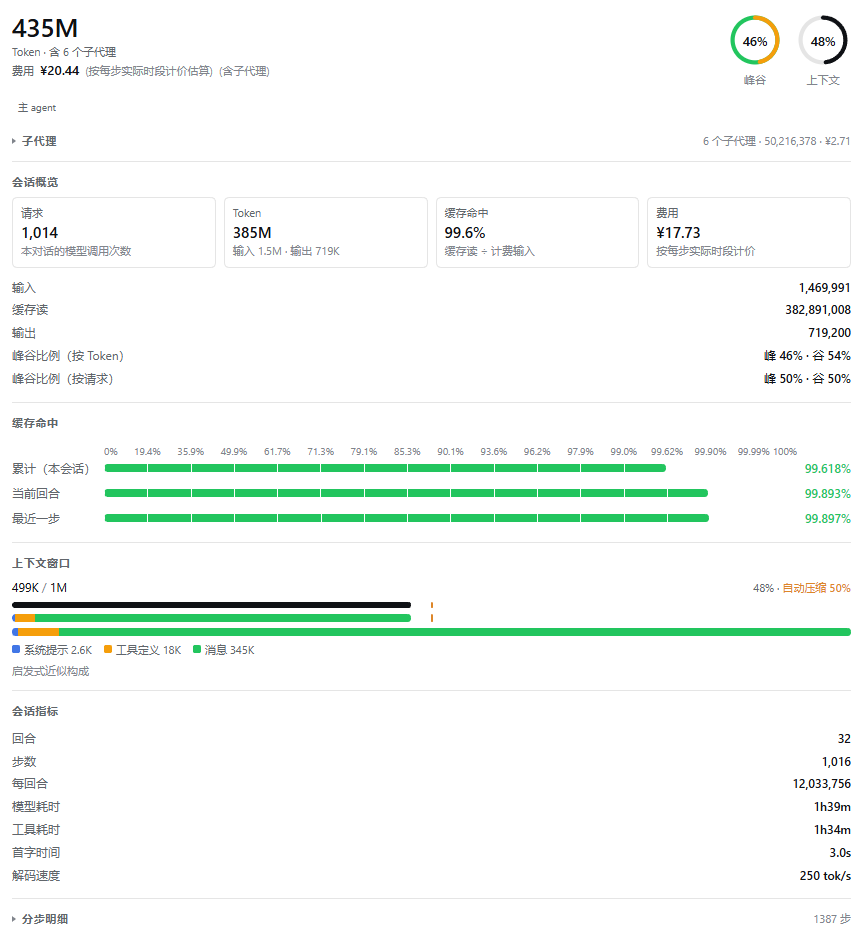
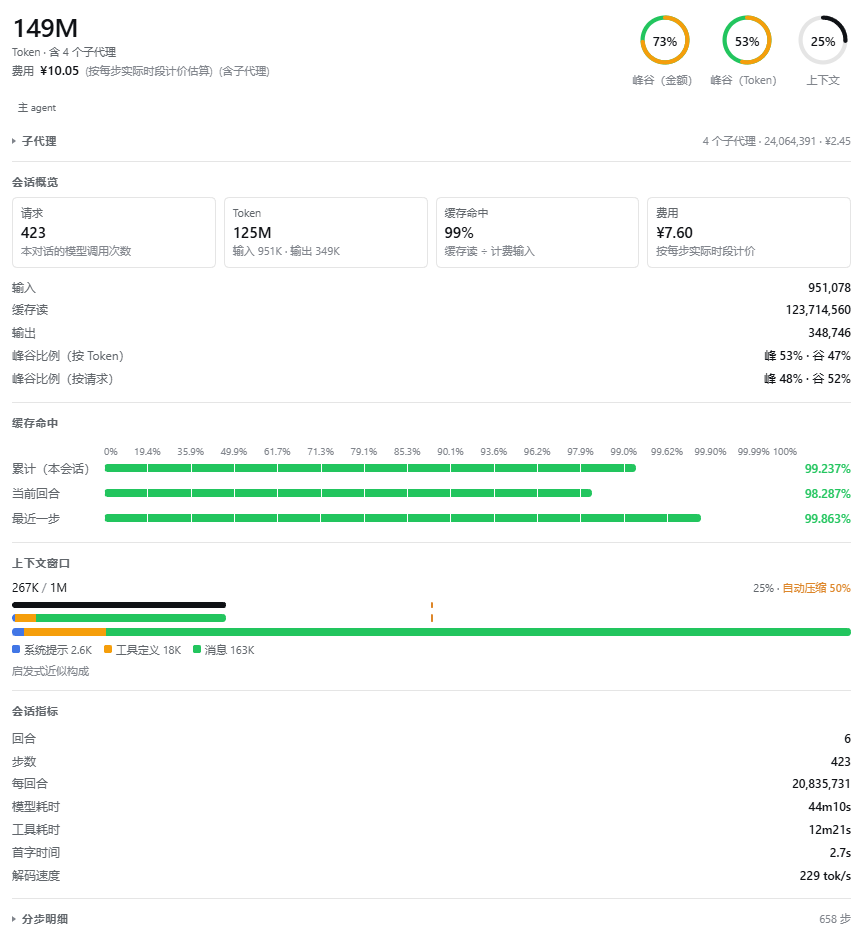
feat: split the header's peak share into token and cost rings
Peak rates are higher than off-peak, so the amount a conversation spent splits by band differently from its token counts. The panel header now draws both rings side by side left of the context ring: the token ring counts tokens, the cost ring prices each band's part of the same rollup. The cost ring disappears when part of the rollup has no price, because a partial split would misstate the share.

diff --git a/dist/client.js b/dist/client.js
@@ -1,4 +1,4 @@
-/* dsh-usage-insights v0.19.0 — generated by scripts/build.mjs; do not edit. */
+/* dsh-usage-insights v0.20.0 — generated by scripts/build.mjs; do not edit. */
 window.__ModuleLoader__.load({
   id: "dsh-usage-insights",
   factory(require) {
@@ -114,7 +114,8 @@ var en = {
   "label.nextRequest": "Next request",
   "label.cost": "Cost",
   "label.cost.hint": "Estimated from the configured price table",
-  "label.bandShare.short": "Peak/off",
+  "label.bandShare.short": "Peak/off (tokens)",
+  "label.bandShare.cost": "Peak/off (cost)",
   "label.bandShare.tokens": "Peak / off-peak (tokens)",
   "label.bandShare.requests": "Peak / off-peak (requests)",
   "band.other": "Unattributed",
@@ -248,7 +249,8 @@ var zh = {
   "label.nextRequest": "\u4E0B\u6B21\u8BF7\u6C42",
   "label.cost": "\u8D39\u7528",
   "label.cost.hint": "\u6309\u5DF2\u914D\u7F6E\u7684\u4EF7\u683C\u8868\u4F30\u7B97",
-  "label.bandShare.short": "\u5CF0\u8C37",
+  "label.bandShare.short": "\u5CF0\u8C37\uFF08Token\uFF09",
+  "label.bandShare.cost": "\u5CF0\u8C37\uFF08\u91D1\u989D\uFF09",
   "label.bandShare.tokens": "\u5CF0\u8C37\u6BD4\u4F8B\uFF08\u6309 Token\uFF09",
   "label.bandShare.requests": "\u5CF0\u8C37\u6BD4\u4F8B\uFF08\u6309\u8BF7\u6C42\uFF09",
   "band.other": "\u672A\u5206\u7C7B",
@@ -419,6 +421,11 @@ function peakRequestShare(share) {
   if (share === null) return null;
   const requests = share.peakRequests + share.offPeakRequests;
   return requests > 0 ? share.peakRequests / requests : null;
+}
+function peakAmountShare(share) {
+  if (share === null) return null;
+  const total = share.peakMicros + share.offPeakMicros;
+  return total > 0 ? share.peakMicros / total : null;
 }
 
 // src/lib/pricing.ts
@@ -1124,6 +1131,7 @@ function deriveSessionUsage(input) {
     costBasis: priced.basis,
     stepActivity: steps,
     bandShare: bandShareOf(input.bands),
+    costBandShare: priced.bandCosts,
     compactionThreshold: input.compaction?.thresholdRatio ?? null,
     hasUsage: totalTokens > 0
   };
@@ -1155,11 +1163,19 @@ function deriveCost(input, model, buckets) {
       const merged = peakCost === null ? offPeakCost : offPeakCost === null ? peakCost : mergeCosts(peakCost, offPeakCost);
       if (merged !== null) {
         const complete = merged.complete && peak?.unpriced !== true && offPeak?.unpriced !== true;
-        return { cost: complete === merged.complete ? merged : { ...merged, complete }, basis: "bands" };
+        return {
+          cost: complete === merged.complete ? merged : { ...merged, complete },
+          basis: "bands",
+          // A partly unpriced rollup cannot say what the band split really was.
+          bandCosts: complete ? {
+            peakMicros: peakCost?.amountMicros ?? 0,
+            offPeakMicros: offPeakCost?.amountMicros ?? 0
+          } : null
+        };
       }
     }
   }
-  return { cost: priceBuckets(input.pricing, model, buckets), basis: "range" };
+  return { cost: priceBuckets(input.pricing, model, buckets), basis: "range", bandCosts: null };
 }
 function priceBand(entries, band, pricing, fallback) {
   if (entries.length === 0) return null;
@@ -1488,6 +1504,9 @@ var css2 = `
   display: flex;
   flex-direction: row;
   align-items: flex-start;
+  justify-content: flex-end;
+  /* Three rings must survive a narrow sidebar; they wrap rather than clip. */
+  flex-wrap: wrap;
   gap: 12px;
   flex: 0 0 auto;
 }
@@ -2548,6 +2567,10 @@ function bandShareText(share, t, basis) {
   if (ratio === null) return "\u2014";
   return `${t("steps.peak")} ${formatPercent(ratio)} \xB7 ${t("steps.offPeak")} ${formatPercent(1 - ratio)}`;
 }
+function costBandShareText(share, currency, t) {
+  if (share === null) return "\u2014";
+  return `${t("steps.peak")} ${formatMoney(share.peakMicros, currency)} \xB7 ${t("steps.offPeak")} ${formatMoney(share.offPeakMicros, currency)}`;
+}
 function ChildAgentsTable(props) {
   return /* @__PURE__ */ (0, import_jsx_runtime2.jsx)("div", { className: "dsu-steps-wrap", children: /* @__PURE__ */ (0, import_jsx_runtime2.jsxs)("table", { className: "dsu-steps", children: [
     /* @__PURE__ */ (0, import_jsx_runtime2.jsx)("thead", { children: /* @__PURE__ */ (0, import_jsx_runtime2.jsxs)("tr", { children: [
@@ -2798,6 +2821,9 @@ function SessionPanel(props) {
   });
   const peakShare = view.bandShare === null ? null : peakTokenShare(view.bandShare);
   const peakRingLabel = peakShare === null ? "\u2014" : formatPercent(peakShare);
+  const costPeakShare = peakAmountShare(view.costBandShare);
+  const costRingLabel = costPeakShare === null ? "\u2014" : formatPercent(costPeakShare);
+  const currency = view.cost?.currency ?? "";
   return /* @__PURE__ */ (0, import_jsx_runtime4.jsxs)("div", { className: "dsu-root", children: [
     /* @__PURE__ */ (0, import_jsx_runtime4.jsx)(StyleTag, {}),
     /* @__PURE__ */ (0, import_jsx_runtime4.jsxs)("header", { className: "dsu-head", children: [
@@ -2821,6 +2847,18 @@ function SessionPanel(props) {
         running && /* @__PURE__ */ (0, import_jsx_runtime4.jsx)("span", { className: "dsu-running", role: "status", "aria-label": t("state.loading"), title: t("state.loading"), children: /* @__PURE__ */ (0, import_jsx_runtime4.jsx)("span", { className: "dsu-dot", "aria-hidden": "true" }) })
       ] }),
       /* @__PURE__ */ (0, import_jsx_runtime4.jsxs)("div", { className: "dsu-head-side", children: [
+        costPeakShare !== null && view.costBandShare !== null && /* @__PURE__ */ (0, import_jsx_runtime4.jsxs)("div", { className: "dsu-ring-block", children: [
+          /* @__PURE__ */ (0, import_jsx_runtime4.jsx)(
+            Ring,
+            {
+              ratio: costPeakShare,
+              label: costRingLabel,
+              tone: "band",
+              description: costBandShareText(view.costBandShare, currency, t)
+            }
+          ),
+          /* @__PURE__ */ (0, import_jsx_runtime4.jsx)("span", { className: "dsu-head-side-caption", children: t("label.bandShare.cost") })
+        ] }),
         peakShare !== null && view.bandShare !== null && /* @__PURE__ */ (0, import_jsx_runtime4.jsxs)("div", { className: "dsu-ring-block", children: [
           /* @__PURE__ */ (0, import_jsx_runtime4.jsx)(
             Ring,

diff --git a/src/lib/usage.ts b/src/lib/usage.ts
@@ -6,7 +6,7 @@
  * storage.
  */
 import type {
-  BandModelView, BreakdownView, CacheHitView, CostBasis, CostView, ModelRef, PricingTable,
+  BandModelView, BreakdownView, CacheHitView, CostBandShare, CostBasis, CostView, ModelRef, PricingTable,
   SessionUsageView, StepActivityView, StepDetailView, TokenBuckets, UsageBandsView, UsageStepView,
 } from '../client/contract.ts'
 import { bandShareOf } from './band-share.ts'
@@ -88,6 +88,7 @@ export function deriveSessionUsage(input: SessionUsageInput): SessionUsageView {
     costBasis: priced.basis,
     stepActivity: steps,
     bandShare: bandShareOf(input.bands),
+    costBandShare: priced.bandCosts,
     compactionThreshold: input.compaction?.thresholdRatio ?? null,
     hasUsage: totalTokens > 0,
   }
@@ -140,13 +141,14 @@ function hitRatio(buckets: {
  * @param input - projection values and price table.
  * @param model - route used when only the cumulative counters exist.
  * @param buckets - cumulative buckets.
- * @returns the cost view and how it was derived.
+ * @returns the cost view, how it was derived, and the per-band amount split
+ *   when every band could be priced.
  */
 function deriveCost(
   input: SessionUsageInput,
   model: ModelRef | null,
   buckets: TokenBuckets,
-): { cost: CostView | null; basis: CostBasis } {
+): { cost: CostView | null; basis: CostBasis; bandCosts: CostBandShare | null } {
   const bands = input.bands
   if (bands !== null && bands !== undefined) {
     const peak = priceBand(bands.total.peak, 'peak', input.pricing, model)
@@ -162,11 +164,21 @@ function deriveCost(
         : offPeakCost === null ? peakCost : mergeCosts(peakCost, offPeakCost)
       if (merged !== null) {
         const complete = merged.complete && (peak?.unpriced !== true) && (offPeak?.unpriced !== true)
-        return { cost: complete === merged.complete ? merged : { ...merged, complete }, basis: 'bands' }
+        return {
+          cost: complete === merged.complete ? merged : { ...merged, complete },
+          basis: 'bands',
+          // A partly unpriced rollup cannot say what the band split really was.
+          bandCosts: complete
+            ? {
+              peakMicros: peakCost?.amountMicros ?? 0,
+              offPeakMicros: offPeakCost?.amountMicros ?? 0,
+            }
+            : null,
+        }
       }
     }
   }
-  return { cost: priceBuckets(input.pricing, model, buckets), basis: 'range' }
+  return { cost: priceBuckets(input.pricing, model, buckets), basis: 'range', bandCosts: null }
 }
 
 /**

diff --git a/src/client/SessionPanel.tsx b/src/client/SessionPanel.tsx
@@ -17,11 +17,11 @@ import {
   formatTokens,
   formatTokensPerSecond,
 } from '../lib/format'
-import { peakTokenShare } from '../lib/band-share.ts'
+import { peakAmountShare, peakTokenShare } from '../lib/band-share.ts'
 import { treeTotals } from '../lib/tree.ts'
 import {
-  bandShareText, ChildAgentsTable, CompositionBar, CompositionProgress, HitBar, HitRuler, InlineMessage,
-  ProgressBar, Ring, Row, Section, Stat, StepTable, StyleTag, useHitDivisions,
+  bandShareText, ChildAgentsTable, CompositionBar, CompositionProgress, costBandShareText, HitBar, HitRuler,
+  InlineMessage, ProgressBar, Ring, Row, Section, Stat, StepTable, StyleTag, useHitDivisions,
 } from './components'
 import type { CompositionSegment } from './components'
 
@@ -101,6 +101,11 @@ export function SessionPanel(props: SessionPanelProps): JSX.Element {
   })
   const peakShare = view.bandShare === null ? null : peakTokenShare(view.bandShare)
   const peakRingLabel = peakShare === null ? '—' : formatPercent(peakShare)
+  // The amount splits by band differently from the tokens: peak requests cost
+  // more per token, so the cost ring is its own figure rather than a repeat.
+  const costPeakShare = peakAmountShare(view.costBandShare)
+  const costRingLabel = costPeakShare === null ? '—' : formatPercent(costPeakShare)
+  const currency = view.cost?.currency ?? ''
   return (
     <div className="dsu-root">
       <StyleTag />
@@ -130,6 +135,17 @@ export function SessionPanel(props: SessionPanelProps): JSX.Element {
           )}
         </div>
         <div className="dsu-head-side">
+          {costPeakShare !== null && view.costBandShare !== null && (
+            <div className="dsu-ring-block">
+              <Ring
+                ratio={costPeakShare}
+                label={costRingLabel}
+                tone="band"
+                description={costBandShareText(view.costBandShare, currency, t)}
+              />
+              <span className="dsu-head-side-caption">{t('label.bandShare.cost')}</span>
+            </div>
+          )}
           {peakShare !== null && view.bandShare !== null && (
             <div className="dsu-ring-block">
               <Ring

diff --git a/src/client/components.tsx b/src/client/components.tsx
@@ -8,7 +8,7 @@
  */
 import { useEffect, useRef, useState } from 'react'
 import type { JSX, ReactNode, RefObject } from 'react'
-import type { BandShareView, ChildAgentView, DayTotal, StepDetailView, Translate } from './contract'
+import type { BandShareView, ChildAgentView, CostBandShare, DayTotal, StepDetailView, Translate } from './contract'
 import { peakRequestShare, peakTokenShare } from '../lib/band-share.ts'
 import { divisionsForWidth, hitBarRatio, hitLevel, hitTicks, hitTickLabel } from '../lib/hit-scale.ts'
 import {
@@ -567,6 +567,27 @@ export function bandShareText(share: BandShareView, t: Translate, basis: 'tokens
   const ratio = basis === 'tokens' ? peakTokenShare(share) : peakRequestShare(share)
   if (ratio === null) return '—'
   return `${t('steps.peak')} ${formatPercent(ratio)} · ${t('steps.offPeak')} ${formatPercent(1 - ratio)}`
+}
+
+/**
+ * Describe one conversation's amount split by billing band.
+ *
+ * The same requests cost different amounts in the two bands, so the ring can
+ * differ from the token ring beside it; the tooltip spells out both amounts.
+ *
+ * @param share - amount split, or null without per-band pricing.
+ * @param currency - ISO 4217 code of the price table.
+ * @param t - translate seat.
+ * @returns e.g. `峰 ¥12.34 · 谷 ¥5.67`, or an em dash without data.
+ */
+export function costBandShareText(
+  share: CostBandShare | null,
+  currency: string,
+  t: Translate,
+): string {
+  if (share === null) return '—'
+  return `${t('steps.peak')} ${formatMoney(share.peakMicros, currency)} · `
+    + `${t('steps.offPeak')} ${formatMoney(share.offPeakMicros, currency)}`
 }
 
 /**

diff --git a/tests/bands-usage.test.ts b/tests/bands-usage.test.ts
@@ -54,6 +54,35 @@ describe('deriveSessionUsage with Host projections', () => {
     })
   })
 
+  it('reports the amount split of the same bands', () => {
+    const view = deriveSessionUsage({ bands, pricing })
+    // Same million tokens in each band, but peak input costs twice as much.
+    expect(view.costBandShare).toEqual({ peakMicros: 2_000_000, offPeakMicros: 1_000_000 })
+    expect(view.cost?.currency).toBe('CNY')
+  })
+
+  it('reports no amount split when only cumulative counters exist', () => {
+    const view = deriveSessionUsage({
+      tokenUsage: { uncachedInputTokens: 1_000_000, cacheReadTokens: 0, cacheWriteTokens: 0, outputTokens: 0 },
+      modelSelection: { lastUsed: { provider: 'deepseek', model: 'deepseek-flash' }, next: null },
+      pricing,
+    })
+    expect(view.costBandShare).toBeNull()
+  })
+
+  it('reports no amount split when part of the rollup is unpriced', () => {
+    const unpricedEntry: BandModelView = { ...entry(1, 1_000_000), provider: 'other', model: 'unknown' }
+    const view = deriveSessionUsage({
+      bands: {
+        days: [],
+        total: { peak: [entry(1, 1_000_000)], offPeak: [unpricedEntry] },
+      },
+      pricing,
+    })
+    expect(view.cost?.complete).toBe(false)
+    expect(view.costBandShare).toBeNull()
+  })
+
   it('falls back to a range when the rollup is absent', () => {
     const view = deriveSessionUsage({
       tokenUsage: { uncachedInputTokens: 1_000_000, cacheReadTokens: 0, cacheWriteTokens: 0, outputTokens: 0 },

diff --git a/src/client/contract.ts b/src/client/contract.ts
@@ -138,6 +138,19 @@ export interface BandShareView {
   offPeakRequests: number
 }
 
+/**
+ * One conversation's amount split by billing band.
+ *
+ * Peak and off-peak rates differ, so the cost split of the same requests does
+ * not repeat their token split; the header shows both rings for that reason.
+ */
+export interface CostBandShare {
+  /** Peak-band amount in micro units (1e-6 of the currency). */
+  peakMicros: number
+  /** Off-peak-band amount in micro units. */
+  offPeakMicros: number
+}
+
 /** The recent requests a session's `usageSteps` view carries. */
 export interface StepActivityView {
   /** Newest last; bounded by the Host's configured window. */
@@ -221,6 +234,11 @@ export interface SessionUsageView {
   stepActivity: StepActivityView | null
   /** Peak/off-peak split of the same conversation; null without a band rollup. */
   bandShare: BandShareView | null
+  /**
+   * Peak/off-peak split of the conversation's own amount; null when the log
+   * carries no per-band rollup or part of it could not be priced.
+   */
+  costBandShare: CostBandShare | null
   /**
    * Resolved automatic-compaction pressure as a fraction of the context window,
    * or null when no compaction backend exposed one.

diff --git a/src/lib/band-share.ts b/src/lib/band-share.ts
@@ -6,7 +6,7 @@
  * cannot be attributed to a band. Callers therefore treat `null` as "no band
  * data", never as zero.
  */
-import type { BandModelView, BandShareView, UsageBandsView } from '../client/contract.ts'
+import type { BandModelView, BandShareView, CostBandShare, UsageBandsView } from '../client/contract.ts'
 
 /**
  * Split one rollup's lifetime counters by billing band.
@@ -87,4 +87,16 @@ export function peakRequestShare(share: BandShareView | null): number | null {
   if (share === null) return null
   const requests = share.peakRequests + share.offPeakRequests
   return requests > 0 ? share.peakRequests / requests : null
+}
+
+/**
+ * Peak share of one conversation's amount.
+ *
+ * @param share - amount split by band, or null without per-band pricing.
+ * @returns a ratio in [0, 1], or null when the split carries no amount.
+ */
+export function peakAmountShare(share: CostBandShare | null): number | null {
+  if (share === null) return null
+  const total = share.peakMicros + share.offPeakMicros
+  return total > 0 ? share.peakMicros / total : null
 }

diff --git a/src/client/locales/en.ts b/src/client/locales/en.ts
@@ -84,7 +84,8 @@ export const en = {
   'label.nextRequest': 'Next request',
   'label.cost': 'Cost',
   'label.cost.hint': 'Estimated from the configured price table',
-  'label.bandShare.short': 'Peak/off',
+  'label.bandShare.short': 'Peak/off (tokens)',
+  'label.bandShare.cost': 'Peak/off (cost)',
   'label.bandShare.tokens': 'Peak / off-peak (tokens)',
   'label.bandShare.requests': 'Peak / off-peak (requests)',
   'band.other': 'Unattributed',

diff --git a/src/client/locales/zh.ts b/src/client/locales/zh.ts
@@ -86,7 +86,8 @@ export const zh = {
   'label.nextRequest': '下次请求',
   'label.cost': '费用',
   'label.cost.hint': '按已配置的价格表估算',
-  'label.bandShare.short': '峰谷',
+  'label.bandShare.short': '峰谷（Token）',
+  'label.bandShare.cost': '峰谷（金额）',
   'label.bandShare.tokens': '峰谷比例（按 Token）',
   'label.bandShare.requests': '峰谷比例（按请求）',
   'band.other': '未分类',

diff --git a/src/client/styles.ts b/src/client/styles.ts
@@ -142,6 +142,9 @@ export const css = `
   display: flex;
   flex-direction: row;
   align-items: flex-start;
+  justify-content: flex-end;
+  /* Three rings must survive a narrow sidebar; they wrap rather than clip. */
+  flex-wrap: wrap;
   gap: 12px;
   flex: 0 0 auto;
 }

diff --git a/tests/usage.test.ts b/tests/usage.test.ts
@@ -104,6 +104,7 @@ describe('deriveSessionUsage', () => {
       costBasis: 'range',
       stepActivity: null,
       bandShare: null,
+      costBandShare: null,
       compactionThreshold: null,
       hasUsage: false,
     })

diff --git a/README.md b/README.md
@@ -18,7 +18,7 @@
 - **缓存命中**：三条横条分别显示本会话累计、当前回合、最近一步的缓存命中率。条形使用幂次刻度（`1-(1-r)^0.3`）放大 90% 以上区间的差异；刻度尺把整条轨道等分成 2 的幂数段（2 / 4 / 8 / 16…，不设上限），每段标出该位置对应的命中率——8 段时依次是 0% / 35.9% / 61.7% / 79.1% / 90.1% / 96.2% / 99.0% / 99.90% / 100%，所以刻度线等距、标签数值不等，非线性直接体现在数字上。段数按可用宽度自适应：每段至少约 40px 才继续二分，面板越宽段数越多，最窄也保留 2 段；条内刻度线与刻度尺同位置。右侧百分比固定三位小数（如 `99.618%`），并按状态着色：≥90% 绿色、70–90% 琥珀色、<70% 红色。
 - **Token 显示**：会话概览的 Token 卡片（含其输入/输出提示）使用 `K` / `M` / `G` 紧凑单位；会话概览的其余行、会话指标、子代理明细与分步明细显示千分位精确整数（如 `275,123,456`）；页头总量（本会话 + 直接子代理）、上下文窗口与用量汇总也使用紧凑单位，悬停数字可看到精确值。
 - **上下文窗口**：第一行显示已用 / 容量与占用百分比；第二行是按占用比例填充的进度条；第三行是「占用 + 构成」组合条（宽度为占用比例，内部按三色分段）；第四行是整窗构成条；条下是带颜色的图例与各段数值。若 Host 能读到自动压缩阈值，前两条上会画一条琥珀色竖线，第一行标注「自动压缩 50%」。
-- **峰谷圈图**：上下文圈图左侧另有一个圈图，绿色轨道表示空闲、橙色弧线表示高峰，中心显示高峰占比（按 Token）。
+- **峰谷圈图**：上下文圈图左侧并排两个圈图——「峰谷（Token）」按 Token 计数、「峰谷（金额）」按每个时段实际价格折算成金额；绿色轨道表示空闲、橙色弧线表示高峰，中心显示高峰占比，悬停可看到两段的具体数值。高峰单价高于空闲，所以两个占比通常不同，正好看出峰谷时段对花费的影响。
 - **会话指标**：回合数、步数、每回合 Token、模型耗时、工具耗时、首字时间、解码速度。
 - **分步明细**（默认折叠，点击展开）：把主 agent 与直接子代理的请求合并成一条时间线（默认显示最近 30 条，标注总步数），每行包含北京时间、峰谷时段、来源（`主` 或子代理编号 `#1`）、`回合.步`、模型、输入 / 缓存读 / 该步缓存命中率 / 输出、该步费用（表头标注货币单位，单元格固定六位小数）。缓存命中率按该步的「缓存读 ÷ 计费输入」计算，与上方缓存命中栏同口径并固定三位小数（如 `99.618%`）；该步没有计费输入时显示 `—`。展开后可用「显示全部」开关查看 Host 保留窗口（默认每个会话最近 200 步）内的所有请求。
 - **精确峰谷计价**：每个请求按它实际发起时刻所属的时段计价，而不是对整个会话套用单一价格。
